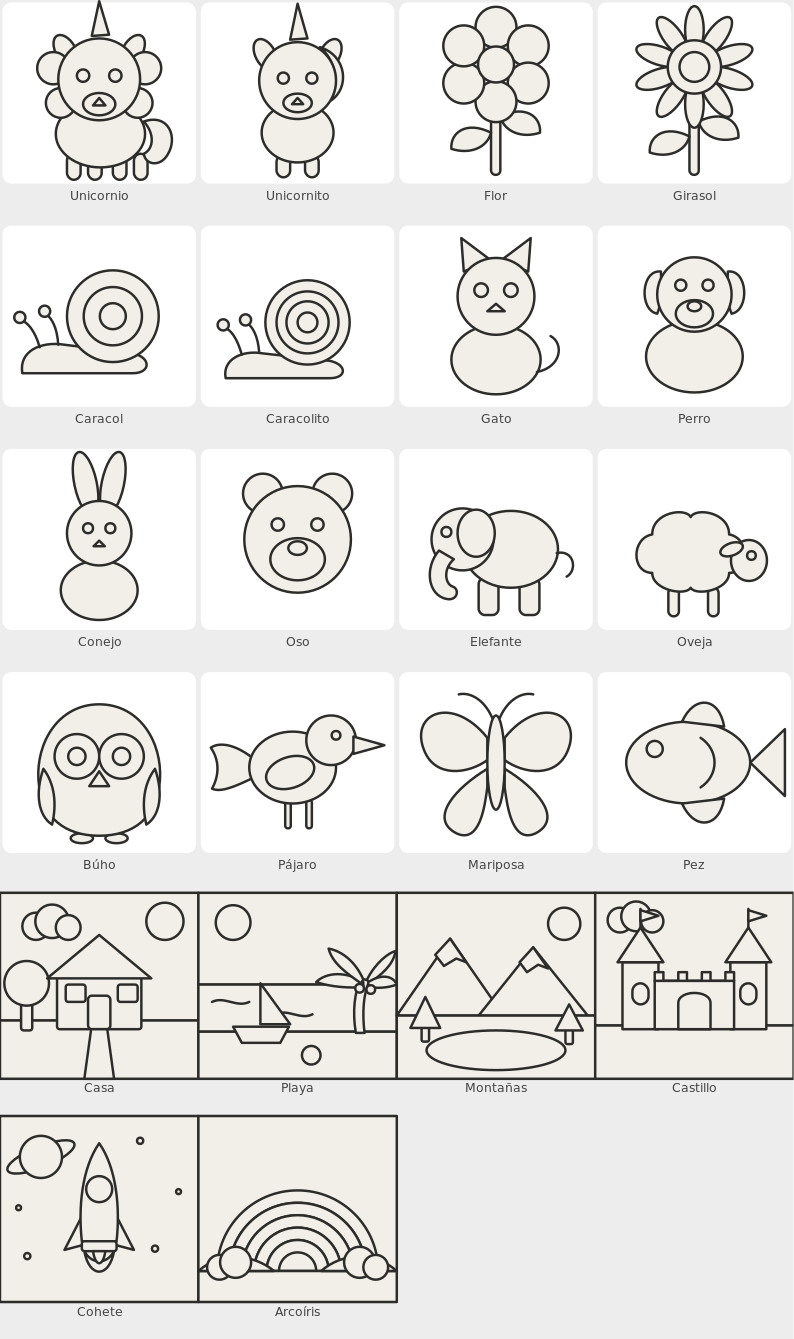
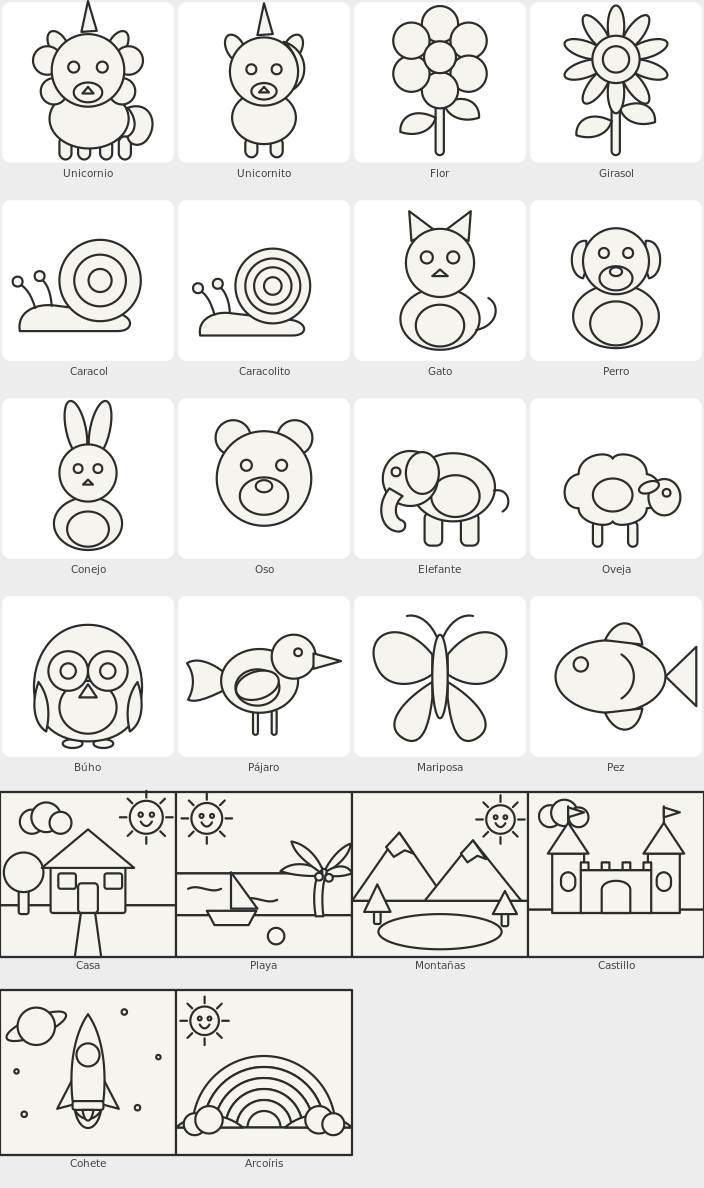
Dibujos de colorear: panza en los animales y soles con carita en los paisajes

diff --git a/docs/silhouettes.js b/docs/silhouettes.js
@@ -39,19 +39,19 @@ const SILHOUETTES = [
   "id": "cat",
   "name": "Gato",
   "category": "animals",
-  "svg": "<ellipse cx=\"160\" cy=\"220\" rx=\"72\" ry=\"56\" class=\"rg\"/><path d=\"M108 78 L104 24 L152 60 Z\" class=\"rg\"/><path d=\"M212 78 L216 24 L168 60 Z\" class=\"rg\"/><path d=\"M226 240 C266 232 270 194 248 182\" class=\"rg ln\" fill=\"none\"/><circle cx=\"160\" cy=\"118\" r=\"62\" class=\"rg\"/><circle cx=\"136\" cy=\"108\" r=\"11\" class=\"rg\"/><circle cx=\"184\" cy=\"108\" r=\"11\" class=\"rg\"/><path d=\"M160 130 L174 142 L146 142 Z\" class=\"rg\"/>"
+  "svg": "<ellipse cx=\"160\" cy=\"220\" rx=\"72\" ry=\"56\" class=\"rg\"/><ellipse cx=\"160\" cy=\"232\" rx=\"44\" ry=\"38\" class=\"rg\"/><path d=\"M108 78 L104 24 L152 60 Z\" class=\"rg\"/><path d=\"M212 78 L216 24 L168 60 Z\" class=\"rg\"/><path d=\"M226 240 C266 232 270 194 248 182\" class=\"rg ln\" fill=\"none\"/><circle cx=\"160\" cy=\"118\" r=\"62\" class=\"rg\"/><circle cx=\"136\" cy=\"108\" r=\"11\" class=\"rg\"/><circle cx=\"184\" cy=\"108\" r=\"11\" class=\"rg\"/><path d=\"M160 130 L174 142 L146 142 Z\" class=\"rg\"/>"
  },
  {
   "id": "dog",
   "name": "Perro",
   "category": "animals",
-  "svg": "<ellipse cx=\"160\" cy=\"215\" rx=\"78\" ry=\"58\" class=\"rg\"/><path d=\"M106 78 C74 74 70 140 100 146 C110 122 106 96 106 78 Z\" class=\"rg\"/><path d=\"M214 78 C246 74 250 140 220 146 C210 122 214 96 214 78 Z\" class=\"rg\"/><circle cx=\"160\" cy=\"115\" r=\"60\" class=\"rg\"/><ellipse cx=\"160\" cy=\"146\" rx=\"30\" ry=\"22\" class=\"rg\"/><ellipse cx=\"160\" cy=\"134\" rx=\"11\" ry=\"8\" class=\"rg\"/><circle cx=\"138\" cy=\"100\" r=\"9\" class=\"rg\"/><circle cx=\"182\" cy=\"100\" r=\"9\" class=\"rg\"/>"
+  "svg": "<ellipse cx=\"160\" cy=\"215\" rx=\"78\" ry=\"58\" class=\"rg\"/><ellipse cx=\"160\" cy=\"228\" rx=\"47\" ry=\"40\" class=\"rg\"/><path d=\"M106 78 C74 74 70 140 100 146 C110 122 106 96 106 78 Z\" class=\"rg\"/><path d=\"M214 78 C246 74 250 140 220 146 C210 122 214 96 214 78 Z\" class=\"rg\"/><circle cx=\"160\" cy=\"115\" r=\"60\" class=\"rg\"/><ellipse cx=\"160\" cy=\"146\" rx=\"30\" ry=\"22\" class=\"rg\"/><ellipse cx=\"160\" cy=\"134\" rx=\"11\" ry=\"8\" class=\"rg\"/><circle cx=\"138\" cy=\"100\" r=\"9\" class=\"rg\"/><circle cx=\"182\" cy=\"100\" r=\"9\" class=\"rg\"/>"
  },
  {
   "id": "rabbit",
   "name": "Conejo",
   "category": "animals",
-  "svg": "<ellipse cx=\"160\" cy=\"232\" rx=\"62\" ry=\"48\" class=\"rg\"/><ellipse cx=\"138\" cy=\"60\" rx=\"18\" ry=\"52\" transform=\"rotate(-12 138 60)\" class=\"rg\"/><ellipse cx=\"182\" cy=\"60\" rx=\"18\" ry=\"52\" transform=\"rotate(12 182 60)\" class=\"rg\"/><circle cx=\"160\" cy=\"140\" r=\"52\" class=\"rg\"/><circle cx=\"142\" cy=\"132\" r=\"8\" class=\"rg\"/><circle cx=\"178\" cy=\"132\" r=\"8\" class=\"rg\"/><path d=\"M160 152 L169 161 L151 161 Z\" class=\"rg\"/>"
+  "svg": "<ellipse cx=\"160\" cy=\"232\" rx=\"62\" ry=\"48\" class=\"rg\"/><ellipse cx=\"160\" cy=\"242\" rx=\"38\" ry=\"32\" class=\"rg\"/><ellipse cx=\"138\" cy=\"60\" rx=\"18\" ry=\"52\" transform=\"rotate(-12 138 60)\" class=\"rg\"/><ellipse cx=\"182\" cy=\"60\" rx=\"18\" ry=\"52\" transform=\"rotate(12 182 60)\" class=\"rg\"/><circle cx=\"160\" cy=\"140\" r=\"52\" class=\"rg\"/><circle cx=\"142\" cy=\"132\" r=\"8\" class=\"rg\"/><circle cx=\"178\" cy=\"132\" r=\"8\" class=\"rg\"/><path d=\"M160 152 L169 161 L151 161 Z\" class=\"rg\"/>"
  },
  {
   "id": "bear",
@@ -63,25 +63,25 @@ const SILHOUETTES = [
   "id": "elephant",
   "name": "Elefante",
   "category": "animals",
-  "svg": "<rect x=\"132\" y=\"212\" width=\"32\" height=\"60\" rx=\"10\" class=\"rg\"/><rect x=\"198\" y=\"212\" width=\"32\" height=\"60\" rx=\"10\" class=\"rg\"/><ellipse cx=\"184\" cy=\"166\" rx=\"76\" ry=\"62\" class=\"rg\"/><path d=\"M258 172 C286 166 292 200 274 210\" class=\"rg ln\" fill=\"none\"/><circle cx=\"106\" cy=\"150\" r=\"50\" class=\"rg\"/><path d=\"M68 168 C44 196 50 240 80 246 C98 250 102 230 90 226 C78 222 74 198 92 182 Z\" class=\"rg\"/><ellipse cx=\"128\" cy=\"140\" rx=\"30\" ry=\"38\" class=\"rg\"/><circle cx=\"80\" cy=\"138\" r=\"8\" class=\"rg\"/>"
+  "svg": "<rect x=\"132\" y=\"212\" width=\"32\" height=\"60\" rx=\"10\" class=\"rg\"/><rect x=\"198\" y=\"212\" width=\"32\" height=\"60\" rx=\"10\" class=\"rg\"/><ellipse cx=\"184\" cy=\"166\" rx=\"76\" ry=\"62\" class=\"rg\"/><ellipse cx=\"188\" cy=\"182\" rx=\"44\" ry=\"38\" class=\"rg\"/><path d=\"M258 172 C286 166 292 200 274 210\" class=\"rg ln\" fill=\"none\"/><circle cx=\"106\" cy=\"150\" r=\"50\" class=\"rg\"/><path d=\"M68 168 C44 196 50 240 80 246 C98 250 102 230 90 226 C78 222 74 198 92 182 Z\" class=\"rg\"/><ellipse cx=\"128\" cy=\"140\" rx=\"30\" ry=\"38\" class=\"rg\"/><circle cx=\"80\" cy=\"138\" r=\"8\" class=\"rg\"/>"
  },
  {
   "id": "sheep",
   "name": "Oveja",
   "category": "animals",
-  "svg": "<rect x=\"118\" y=\"228\" width=\"17\" height=\"46\" rx=\"8\" class=\"rg\"/><rect x=\"182\" y=\"228\" width=\"17\" height=\"46\" rx=\"8\" class=\"rg\"/><path d=\"M92 204 C58 204 58 148 92 142 C92 106 146 98 154 114 C162 98 216 106 216 142 C250 148 250 204 216 204 C216 232 162 242 154 228 C146 242 92 232 92 204 Z\" class=\"rg\"/><ellipse cx=\"248\" cy=\"184\" rx=\"29\" ry=\"33\" class=\"rg\"/><ellipse cx=\"220\" cy=\"166\" rx=\"19\" ry=\"10\" transform=\"rotate(-20 220 166)\" class=\"rg\"/><circle cx=\"252\" cy=\"176\" r=\"7\" class=\"rg\"/>"
+  "svg": "<rect x=\"118\" y=\"228\" width=\"17\" height=\"46\" rx=\"8\" class=\"rg\"/><rect x=\"182\" y=\"228\" width=\"17\" height=\"46\" rx=\"8\" class=\"rg\"/><path d=\"M92 204 C58 204 58 148 92 142 C92 106 146 98 154 114 C162 98 216 106 216 142 C250 148 250 204 216 204 C216 232 162 242 154 228 C146 242 92 232 92 204 Z\" class=\"rg\"/><ellipse cx=\"154\" cy=\"180\" rx=\"36\" ry=\"30\" class=\"rg\"/><ellipse cx=\"248\" cy=\"184\" rx=\"29\" ry=\"33\" class=\"rg\"/><ellipse cx=\"220\" cy=\"166\" rx=\"19\" ry=\"10\" transform=\"rotate(-20 220 166)\" class=\"rg\"/><circle cx=\"252\" cy=\"176\" r=\"7\" class=\"rg\"/>"
  },
  {
   "id": "owl",
   "name": "Búho",
   "category": "animals",
-  "svg": "<ellipse cx=\"132\" cy=\"272\" rx=\"18\" ry=\"8\" class=\"rg\"/><ellipse cx=\"188\" cy=\"272\" rx=\"18\" ry=\"8\" class=\"rg\"/><path d=\"M160 56 C226 56 262 118 258 178 C254 240 214 268 160 268 C106 268 66 240 62 178 C58 118 94 56 160 56 Z\" class=\"rg\"/><path d=\"M70 160 C56 200 62 236 84 250 C92 216 88 184 70 160 Z\" class=\"rg\"/><path d=\"M250 160 C264 200 258 236 236 250 C228 216 232 184 250 160 Z\" class=\"rg\"/><circle cx=\"124\" cy=\"140\" r=\"36\" class=\"rg\"/><circle cx=\"196\" cy=\"140\" r=\"36\" class=\"rg\"/><circle cx=\"124\" cy=\"140\" r=\"14\" class=\"rg\"/><circle cx=\"196\" cy=\"140\" r=\"14\" class=\"rg\"/><path d=\"M160 164 L176 188 L144 188 Z\" class=\"rg\"/>"
+  "svg": "<ellipse cx=\"132\" cy=\"272\" rx=\"18\" ry=\"8\" class=\"rg\"/><ellipse cx=\"188\" cy=\"272\" rx=\"18\" ry=\"8\" class=\"rg\"/><path d=\"M160 56 C226 56 262 118 258 178 C254 240 214 268 160 268 C106 268 66 240 62 178 C58 118 94 56 160 56 Z\" class=\"rg\"/><ellipse cx=\"160\" cy=\"206\" rx=\"52\" ry=\"48\" class=\"rg\"/><path d=\"M70 160 C56 200 62 236 84 250 C92 216 88 184 70 160 Z\" class=\"rg\"/><path d=\"M250 160 C264 200 258 236 236 250 C228 216 232 184 250 160 Z\" class=\"rg\"/><circle cx=\"124\" cy=\"140\" r=\"36\" class=\"rg\"/><circle cx=\"196\" cy=\"140\" r=\"36\" class=\"rg\"/><circle cx=\"124\" cy=\"140\" r=\"14\" class=\"rg\"/><circle cx=\"196\" cy=\"140\" r=\"14\" class=\"rg\"/><path d=\"M160 164 L176 188 L144 188 Z\" class=\"rg\"/>"
  },
  {
   "id": "bird",
   "name": "Pájaro",
   "category": "animals",
-  "svg": "<rect x=\"140\" y=\"210\" width=\"9\" height=\"46\" rx=\"4\" class=\"rg\"/><rect x=\"174\" y=\"210\" width=\"9\" height=\"46\" rx=\"4\" class=\"rg\"/><path d=\"M94 148 C62 120 34 116 20 126 C34 146 34 170 22 192 C38 200 68 184 94 172 Z\" class=\"rg\"/><ellipse cx=\"152\" cy=\"158\" rx=\"70\" ry=\"58\" class=\"rg\"/><circle cx=\"214\" cy=\"114\" r=\"40\" class=\"rg\"/><path d=\"M250 108 L300 122 L250 136 Z\" class=\"rg\"/><ellipse cx=\"148\" cy=\"166\" rx=\"40\" ry=\"25\" transform=\"rotate(-18 148 166)\" class=\"rg\"/><circle cx=\"222\" cy=\"106\" r=\"7\" class=\"rg\"/>"
+  "svg": "<rect x=\"140\" y=\"210\" width=\"9\" height=\"46\" rx=\"4\" class=\"rg\"/><rect x=\"174\" y=\"210\" width=\"9\" height=\"46\" rx=\"4\" class=\"rg\"/><path d=\"M94 148 C62 120 34 116 20 126 C34 146 34 170 22 192 C38 200 68 184 94 172 Z\" class=\"rg\"/><ellipse cx=\"152\" cy=\"158\" rx=\"70\" ry=\"58\" class=\"rg\"/><ellipse cx=\"148\" cy=\"170\" rx=\"40\" ry=\"33\" class=\"rg\"/><circle cx=\"214\" cy=\"114\" r=\"40\" class=\"rg\"/><path d=\"M250 108 L300 122 L250 136 Z\" class=\"rg\"/><ellipse cx=\"148\" cy=\"166\" rx=\"40\" ry=\"25\" transform=\"rotate(-18 148 166)\" class=\"rg\"/><circle cx=\"222\" cy=\"106\" r=\"7\" class=\"rg\"/>"
  },
  {
   "id": "butterfly",
@@ -99,19 +99,19 @@ const SILHOUETTES = [
   "id": "house",
   "name": "Casa",
   "category": "places",
-  "svg": "<rect x=\"0\" y=\"0\" width=\"320\" height=\"206\" rx=\"0\" class=\"rg\"/><circle cx=\"266\" cy=\"46\" r=\"30\" class=\"rg\"/><circle cx=\"58\" cy=\"54\" r=\"22\" class=\"rg\"/><circle cx=\"84\" cy=\"46\" r=\"27\" class=\"rg\"/><circle cx=\"110\" cy=\"56\" r=\"20\" class=\"rg\"/><rect x=\"0\" y=\"206\" width=\"320\" height=\"94\" rx=\"0\" class=\"rg\"/><rect x=\"34\" y=\"168\" width=\"18\" height=\"54\" rx=\"4\" class=\"rg\"/><circle cx=\"43\" cy=\"146\" r=\"36\" class=\"rg\"/><rect x=\"92\" y=\"132\" width=\"136\" height=\"88\" rx=\"4\" class=\"rg\"/><path d=\"M76 138 L160 68 L244 138 Z\" class=\"rg\"/><rect x=\"106\" y=\"148\" width=\"32\" height=\"28\" rx=\"4\" class=\"rg\"/><rect x=\"190\" y=\"148\" width=\"32\" height=\"28\" rx=\"4\" class=\"rg\"/><rect x=\"142\" y=\"166\" width=\"36\" height=\"54\" rx=\"6\" class=\"rg\"/><path d=\"M136 300 L184 300 L173 220 L147 220 Z\" class=\"rg\"/>"
+  "svg": "<rect x=\"0\" y=\"0\" width=\"320\" height=\"206\" rx=\"0\" class=\"rg\"/><circle cx=\"266\" cy=\"46\" r=\"30\" class=\"rg\"/><circle cx=\"58\" cy=\"54\" r=\"22\" class=\"rg\"/><circle cx=\"84\" cy=\"46\" r=\"27\" class=\"rg\"/><circle cx=\"110\" cy=\"56\" r=\"20\" class=\"rg\"/><rect x=\"0\" y=\"206\" width=\"320\" height=\"94\" rx=\"0\" class=\"rg\"/><rect x=\"34\" y=\"168\" width=\"18\" height=\"54\" rx=\"4\" class=\"rg\"/><circle cx=\"43\" cy=\"146\" r=\"36\" class=\"rg\"/><rect x=\"92\" y=\"132\" width=\"136\" height=\"88\" rx=\"4\" class=\"rg\"/><path d=\"M76 138 L160 68 L244 138 Z\" class=\"rg\"/><rect x=\"106\" y=\"148\" width=\"32\" height=\"28\" rx=\"4\" class=\"rg\"/><rect x=\"190\" y=\"148\" width=\"32\" height=\"28\" rx=\"4\" class=\"rg\"/><rect x=\"142\" y=\"166\" width=\"36\" height=\"54\" rx=\"6\" class=\"rg\"/><path d=\"M136 300 L184 300 L173 220 L147 220 Z\" class=\"rg\"/><path d=\"M302.0 46.0 L314.0 46.0\" class=\"rg ln\" fill=\"none\"/><path d=\"M291.5 71.5 L299.9 79.9\" class=\"rg ln\" fill=\"none\"/><path d=\"M266.0 82.0 L266.0 94.0\" class=\"rg ln\" fill=\"none\"/><path d=\"M240.5 71.5 L232.1 79.9\" class=\"rg ln\" fill=\"none\"/><path d=\"M230.0 46.0 L218.0 46.0\" class=\"rg ln\" fill=\"none\"/><path d=\"M240.5 20.5 L232.1 12.1\" class=\"rg ln\" fill=\"none\"/><path d=\"M266.0 10.0 L266.0 -2.0\" class=\"rg ln\" fill=\"none\"/><path d=\"M291.5 20.5 L299.9 12.1\" class=\"rg ln\" fill=\"none\"/><circle cx=\"255.8\" cy=\"41.2\" r=\"3.9\" class=\"rg\"/><circle cx=\"276.2\" cy=\"41.2\" r=\"3.9\" class=\"rg\"/><path d=\"M255.8 53.8 C261.8 64.6 270.2 64.6 276.2 53.8\" class=\"rg ln\" fill=\"none\"/>"
  },
  {
   "id": "beach",
   "name": "Playa",
   "category": "places",
-  "svg": "<rect x=\"0\" y=\"0\" width=\"320\" height=\"148\" rx=\"0\" class=\"rg\"/><circle cx=\"56\" cy=\"48\" r=\"28\" class=\"rg\"/><rect x=\"0\" y=\"148\" width=\"320\" height=\"76\" rx=\"0\" class=\"rg\"/><path d=\"M22 176 C42 166 62 186 82 176\" class=\"rg ln\" fill=\"none\"/><path d=\"M124 196 C144 186 164 206 184 196\" class=\"rg ln\" fill=\"none\"/><rect x=\"0\" y=\"224\" width=\"320\" height=\"76\" rx=\"0\" class=\"rg\"/><path d=\"M254 226 C248 192 252 160 262 138 L276 142 C266 162 264 194 268 226 Z\" class=\"rg\"/><path d=\"M266 144 C238 126 206 128 190 144 C214 152 244 154 266 152 Z\" class=\"rg\"/><path d=\"M266 140 C254 112 232 94 210 90 C216 114 240 130 262 146 Z\" class=\"rg\"/><path d=\"M272 140 C286 112 308 96 318 94 C314 118 294 132 276 146 Z\" class=\"rg\"/><path d=\"M274 144 C296 130 314 134 320 148 C304 154 288 154 274 152 Z\" class=\"rg\"/><circle cx=\"260\" cy=\"154\" r=\"7\" class=\"rg\"/><circle cx=\"278\" cy=\"156\" r=\"7\" class=\"rg\"/><path d=\"M56 216 L146 216 L132 242 L70 242 Z\" class=\"rg\"/><path d=\"M100 212 L100 146 L148 212 Z\" class=\"rg\"/><circle cx=\"182\" cy=\"262\" r=\"15\" class=\"rg\"/>"
+  "svg": "<rect x=\"0\" y=\"0\" width=\"320\" height=\"148\" rx=\"0\" class=\"rg\"/><circle cx=\"56\" cy=\"48\" r=\"28\" class=\"rg\"/><rect x=\"0\" y=\"148\" width=\"320\" height=\"76\" rx=\"0\" class=\"rg\"/><path d=\"M22 176 C42 166 62 186 82 176\" class=\"rg ln\" fill=\"none\"/><path d=\"M124 196 C144 186 164 206 184 196\" class=\"rg ln\" fill=\"none\"/><rect x=\"0\" y=\"224\" width=\"320\" height=\"76\" rx=\"0\" class=\"rg\"/><path d=\"M254 226 C248 192 252 160 262 138 L276 142 C266 162 264 194 268 226 Z\" class=\"rg\"/><path d=\"M266 144 C238 126 206 128 190 144 C214 152 244 154 266 152 Z\" class=\"rg\"/><path d=\"M266 140 C254 112 232 94 210 90 C216 114 240 130 262 146 Z\" class=\"rg\"/><path d=\"M272 140 C286 112 308 96 318 94 C314 118 294 132 276 146 Z\" class=\"rg\"/><path d=\"M274 144 C296 130 314 134 320 148 C304 154 288 154 274 152 Z\" class=\"rg\"/><circle cx=\"260\" cy=\"154\" r=\"7\" class=\"rg\"/><circle cx=\"278\" cy=\"156\" r=\"7\" class=\"rg\"/><path d=\"M56 216 L146 216 L132 242 L70 242 Z\" class=\"rg\"/><path d=\"M100 212 L100 146 L148 212 Z\" class=\"rg\"/><circle cx=\"182\" cy=\"262\" r=\"15\" class=\"rg\"/><path d=\"M90.0 48.0 L102.0 48.0\" class=\"rg ln\" fill=\"none\"/><path d=\"M80.0 72.0 L88.5 80.5\" class=\"rg ln\" fill=\"none\"/><path d=\"M56.0 82.0 L56.0 94.0\" class=\"rg ln\" fill=\"none\"/><path d=\"M32.0 72.0 L23.5 80.5\" class=\"rg ln\" fill=\"none\"/><path d=\"M22.0 48.0 L10.0 48.0\" class=\"rg ln\" fill=\"none\"/><path d=\"M32.0 24.0 L23.5 15.5\" class=\"rg ln\" fill=\"none\"/><path d=\"M56.0 14.0 L56.0 2.0\" class=\"rg ln\" fill=\"none\"/><path d=\"M80.0 24.0 L88.5 15.5\" class=\"rg ln\" fill=\"none\"/><circle cx=\"46.48\" cy=\"43.519999999999996\" r=\"3.6\" class=\"rg\"/><circle cx=\"65.52\" cy=\"43.519999999999996\" r=\"3.6\" class=\"rg\"/><path d=\"M46.48 55.28 C52.08 65.36 59.92 65.36 65.52 55.28\" class=\"rg ln\" fill=\"none\"/>"
  },
  {
   "id": "mountains",
   "name": "Montañas",
   "category": "places",
-  "svg": "<rect x=\"0\" y=\"0\" width=\"320\" height=\"198\" rx=\"0\" class=\"rg\"/><circle cx=\"270\" cy=\"50\" r=\"26\" class=\"rg\"/><path d=\"M0 198 L86 74 L172 198 Z\" class=\"rg\"/><path d=\"M86 74 L112 112 L96 106 L76 118 L62 100 Z\" class=\"rg\"/><path d=\"M132 198 L220 88 L308 198 Z\" class=\"rg\"/><path d=\"M220 88 L244 122 L228 116 L210 128 L198 112 Z\" class=\"rg\"/><rect x=\"0\" y=\"198\" width=\"320\" height=\"102\" rx=\"0\" class=\"rg\"/><ellipse cx=\"160\" cy=\"254\" rx=\"112\" ry=\"32\" class=\"rg\"/><rect x=\"40\" y=\"216\" width=\"12\" height=\"24\" rx=\"3\" class=\"rg\"/><path d=\"M22 218 L46 168 L70 218 Z\" class=\"rg\"/><rect x=\"272\" y=\"220\" width=\"12\" height=\"24\" rx=\"3\" class=\"rg\"/><path d=\"M256 222 L278 180 L300 222 Z\" class=\"rg\"/>"
+  "svg": "<rect x=\"0\" y=\"0\" width=\"320\" height=\"198\" rx=\"0\" class=\"rg\"/><circle cx=\"270\" cy=\"50\" r=\"26\" class=\"rg\"/><path d=\"M0 198 L86 74 L172 198 Z\" class=\"rg\"/><path d=\"M86 74 L112 112 L96 106 L76 118 L62 100 Z\" class=\"rg\"/><path d=\"M132 198 L220 88 L308 198 Z\" class=\"rg\"/><path d=\"M220 88 L244 122 L228 116 L210 128 L198 112 Z\" class=\"rg\"/><rect x=\"0\" y=\"198\" width=\"320\" height=\"102\" rx=\"0\" class=\"rg\"/><ellipse cx=\"160\" cy=\"254\" rx=\"112\" ry=\"32\" class=\"rg\"/><rect x=\"40\" y=\"216\" width=\"12\" height=\"24\" rx=\"3\" class=\"rg\"/><path d=\"M22 218 L46 168 L70 218 Z\" class=\"rg\"/><rect x=\"272\" y=\"220\" width=\"12\" height=\"24\" rx=\"3\" class=\"rg\"/><path d=\"M256 222 L278 180 L300 222 Z\" class=\"rg\"/><path d=\"M302.0 50.0 L314.0 50.0\" class=\"rg ln\" fill=\"none\"/><path d=\"M292.6 72.6 L301.1 81.1\" class=\"rg ln\" fill=\"none\"/><path d=\"M270.0 82.0 L270.0 94.0\" class=\"rg ln\" fill=\"none\"/><path d=\"M247.4 72.6 L238.9 81.1\" class=\"rg ln\" fill=\"none\"/><path d=\"M238.0 50.0 L226.0 50.0\" class=\"rg ln\" fill=\"none\"/><path d=\"M247.4 27.4 L238.9 18.9\" class=\"rg ln\" fill=\"none\"/><path d=\"M270.0 18.0 L270.0 6.0\" class=\"rg ln\" fill=\"none\"/><path d=\"M292.6 27.4 L301.1 18.9\" class=\"rg ln\" fill=\"none\"/><circle cx=\"261.16\" cy=\"45.84\" r=\"3.4\" class=\"rg\"/><circle cx=\"278.84\" cy=\"45.84\" r=\"3.4\" class=\"rg\"/><path d=\"M261.16 56.76 C266.36 66.12 273.64 66.12 278.84 56.76\" class=\"rg ln\" fill=\"none\"/>"
  },
  {
   "id": "castle",
@@ -129,6 +129,6 @@ const SILHOUETTES = [
   "id": "rainbow",
   "name": "Arcoíris",
   "category": "places",
-  "svg": "<rect x=\"0\" y=\"0\" width=\"320\" height=\"250\" rx=\"0\" class=\"rg\"/><path d=\"M30 250 C30 178.2 88.2 120 160 120 C231.8 120 290 178.2 290 250 L270 250 C270 189.2 220.8 140 160 140 C99.2 140 50 189.2 50 250 Z\" class=\"rg\"/><path d=\"M50 250 C50 189.2 99.2 140 160 140 C220.8 140 270 189.2 270 250 L250 250 C250 200.3 209.7 160 160 160 C110.3 160 70 200.3 70 250 Z\" class=\"rg\"/><path d=\"M70 250 C70 200.3 110.3 160 160 160 C209.7 160 250 200.3 250 250 L230 250 C230 211.3 198.7 180 160 180 C121.3 180 90 211.3 90 250 Z\" class=\"rg\"/><path d=\"M90 250 C90 211.3 121.3 180 160 180 C198.7 180 230 211.3 230 250 L210 250 C210 222.4 187.6 200 160 200 C132.4 200 110 222.4 110 250 Z\" class=\"rg\"/><path d=\"M110 250 C110 222.4 132.4 200 160 200 C187.6 200 210 222.4 210 250 L190 250 C190 233.4 176.6 220 160 220 C143.4 220 130 233.4 130 250 Z\" class=\"rg\"/><rect x=\"0\" y=\"250\" width=\"320\" height=\"50\" rx=\"0\" class=\"rg\"/><path d=\"M0 250 C36 218 88 222 122 250 Z\" class=\"rg\"/><path d=\"M198 250 C232 220 284 218 320 250 Z\" class=\"rg\"/><circle cx=\"34\" cy=\"244\" r=\"20\" class=\"rg\"/><circle cx=\"60\" cy=\"236\" r=\"25\" class=\"rg\"/><circle cx=\"260\" cy=\"236\" r=\"25\" class=\"rg\"/><circle cx=\"286\" cy=\"244\" r=\"20\" class=\"rg\"/>"
+  "svg": "<rect x=\"0\" y=\"0\" width=\"320\" height=\"250\" rx=\"0\" class=\"rg\"/><circle cx=\"52\" cy=\"56\" r=\"26\" class=\"rg\"/><path d=\"M30 250 C30 178.2 88.2 120 160 120 C231.8 120 290 178.2 290 250 L270 250 C270 189.2 220.8 140 160 140 C99.2 140 50 189.2 50 250 Z\" class=\"rg\"/><path d=\"M50 250 C50 189.2 99.2 140 160 140 C220.8 140 270 189.2 270 250 L250 250 C250 200.3 209.7 160 160 160 C110.3 160 70 200.3 70 250 Z\" class=\"rg\"/><path d=\"M70 250 C70 200.3 110.3 160 160 160 C209.7 160 250 200.3 250 250 L230 250 C230 211.3 198.7 180 160 180 C121.3 180 90 211.3 90 250 Z\" class=\"rg\"/><path d=\"M90 250 C90 211.3 121.3 180 160 180 C198.7 180 230 211.3 230 250 L210 250 C210 222.4 187.6 200 160 200 C132.4 200 110 222.4 110 250 Z\" class=\"rg\"/><path d=\"M110 250 C110 222.4 132.4 200 160 200 C187.6 200 210 222.4 210 250 L190 250 C190 233.4 176.6 220 160 220 C143.4 220 130 233.4 130 250 Z\" class=\"rg\"/><rect x=\"0\" y=\"250\" width=\"320\" height=\"50\" rx=\"0\" class=\"rg\"/><path d=\"M0 250 C36 218 88 222 122 250 Z\" class=\"rg\"/><path d=\"M198 250 C232 220 284 218 320 250 Z\" class=\"rg\"/><circle cx=\"34\" cy=\"244\" r=\"20\" class=\"rg\"/><circle cx=\"60\" cy=\"236\" r=\"25\" class=\"rg\"/><circle cx=\"260\" cy=\"236\" r=\"25\" class=\"rg\"/><circle cx=\"286\" cy=\"244\" r=\"20\" class=\"rg\"/><path d=\"M84.0 56.0 L96.0 56.0\" class=\"rg ln\" fill=\"none\"/><path d=\"M74.6 78.6 L83.1 87.1\" class=\"rg ln\" fill=\"none\"/><path d=\"M52.0 88.0 L52.0 100.0\" class=\"rg ln\" fill=\"none\"/><path d=\"M29.4 78.6 L20.9 87.1\" class=\"rg ln\" fill=\"none\"/><path d=\"M20.0 56.0 L8.0 56.0\" class=\"rg ln\" fill=\"none\"/><path d=\"M29.4 33.4 L20.9 24.9\" class=\"rg ln\" fill=\"none\"/><path d=\"M52.0 24.0 L52.0 12.0\" class=\"rg ln\" fill=\"none\"/><path d=\"M74.6 33.4 L83.1 24.9\" class=\"rg ln\" fill=\"none\"/><circle cx=\"43.16\" cy=\"51.84\" r=\"3.4\" class=\"rg\"/><circle cx=\"60.84\" cy=\"51.84\" r=\"3.4\" class=\"rg\"/><path d=\"M43.16 62.76 C48.36 72.12 55.64 72.12 60.84 62.76\" class=\"rg ln\" fill=\"none\"/>"
  }
 ];

diff --git a/docs/sw.js b/docs/sw.js
@@ -9,7 +9,7 @@
    Bumping CACHE below is optional now — the old copies get overwritten on
    every successful fetch anyway. */
 
-const CACHE = 'aurapp-v7';
+const CACHE = 'aurapp-v8';
 
 const SHELL = [
   './',
